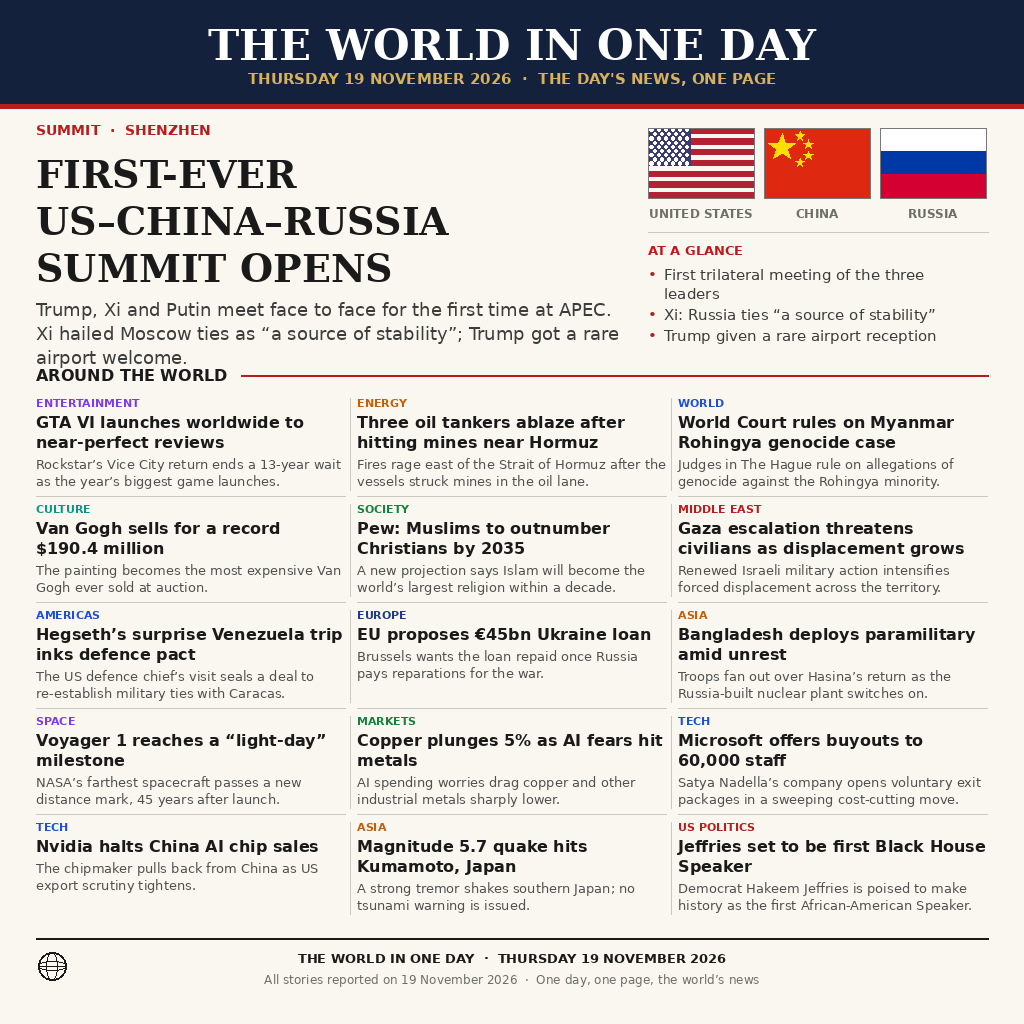
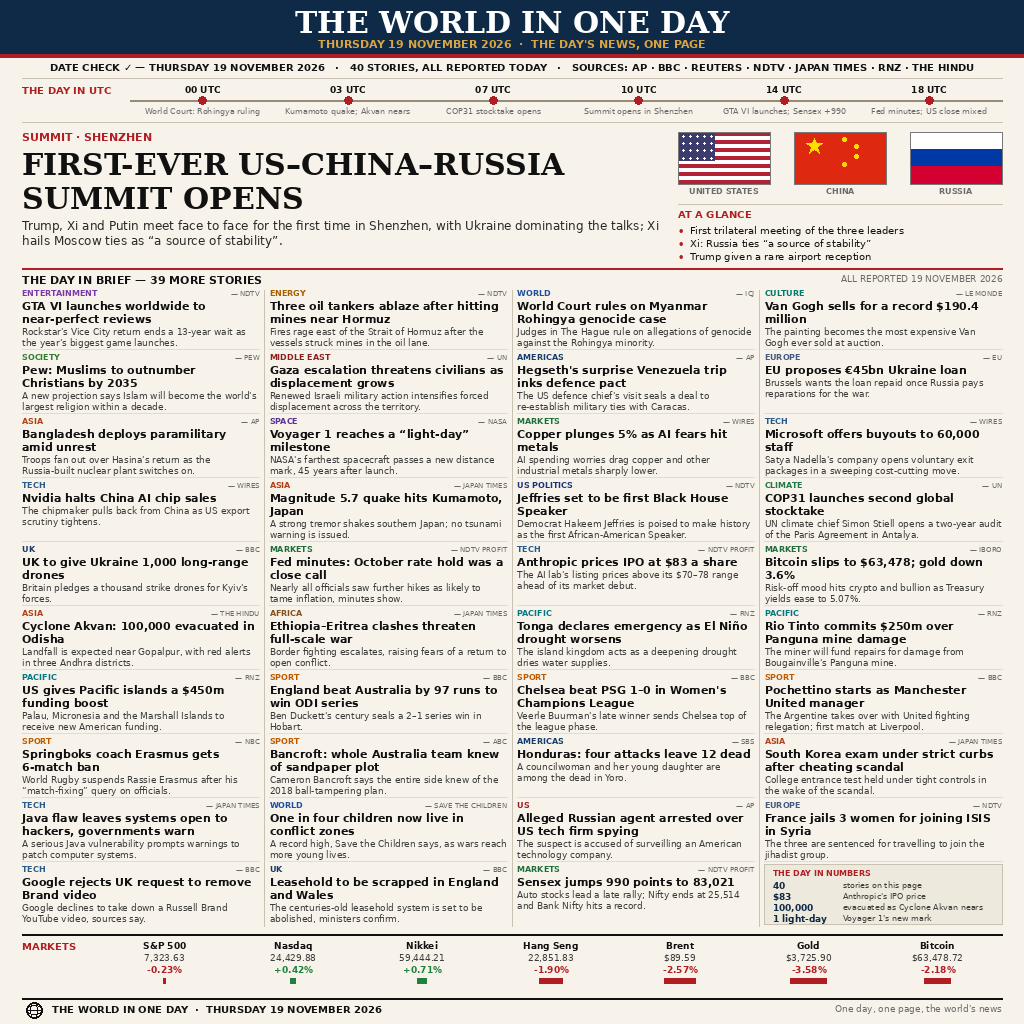
Dense v2 front page: 40 stories, UTC timeline, date check, markets strip

Changed region(s): [[0.0, 0.0, 1.0, 1.0], [0.5312, 0.2188, 0.5938, 0.25], [0.4688, 0.2188, 0.5, 0.25]]

diff --git a/main.py b/main.py
@@ -1,35 +1,33 @@
 #!/usr/bin/env python3
-"""Write the entry image to the make.fun output directory.
+"""Entry point for news-image-20261119.
 
-The front page image (entry.png) is rendered during the build and committed
-next to this script. This program only copies it into the output directory,
-so it needs nothing beyond the standard library and always writes the same
-bytes. Run: python3 main.py  (honours $MAKEFUN_OUTPUT_DIR when set).
+Copies the pre-rendered front page (entry.png, shipped in this repo) to
+the output directory make.fun asks for. Standard library only: the
+scoring sandbox has no third-party packages, so this file imports
+nothing beyond os, shutil, sys and pathlib.
 """
-
 import os
 import shutil
 import sys
 from pathlib import Path
 
-IMAGE = "entry.png"
-
 
 def main():
-    here = Path(__file__).resolve().parent
-    src = here / IMAGE
+    out_dir = os.environ.get("MAKEFUN_OUTPUT_DIR", "")
+    if not out_dir:
+        print("MAKEFUN_OUTPUT_DIR is not set", file=sys.stderr)
+        return 1
+    src = Path(__file__).resolve().parent / "entry.png"
     if not src.is_file():
-        print(f"error: {IMAGE} not found beside {__file__}", file=sys.stderr)
+        print("entry.png not found beside main.py", file=sys.stderr)
         return 1
-    out_dir = Path(os.environ.get("MAKEFUN_OUTPUT_DIR") or str(here))
-    out_dir.mkdir(parents=True, exist_ok=True)
-    dst = out_dir / IMAGE
-    if dst.resolve() != src.resolve():
-        shutil.copyfile(src, dst)
-    if dst.stat().st_size != src.stat().st_size:
-        print("error: size mismatch after copy", file=sys.stderr)
+    dest = Path(out_dir) / "entry.png"
+    dest.parent.mkdir(parents=True, exist_ok=True)
+    shutil.copyfile(src, dest)
+    if dest.stat().st_size != src.stat().st_size:
+        print("copy failed: size mismatch", file=sys.stderr)
         return 1
-    print(f"wrote {dst} ({dst.stat().st_size} bytes, verified)")
+    print("wrote " + str(dest) + " (" + str(dest.stat().st_size) + " bytes)")
     return 0
 
 

diff --git a/README.md b/README.md
@@ -4,7 +4,7 @@
 [![rank](https://make.fun/badge/news-image-20261119/Sssyalr/news-image-20261119/rank.svg)](https://make.fun/bounty/news-image-20261119/leaderboard?utm_source=github&utm_medium=readme&utm_campaign=news-image-20261119)
 [![reward](https://make.fun/badge/news-image-20261119/Sssyalr/news-image-20261119/reward.svg)](https://make.fun/bounty/news-image-20261119?utm_source=github&utm_medium=readme&utm_campaign=news-image-20261119)
 
-A Python program that draws a one-page newspaper front page summing up the world's news of Thursday 19 November 2026 — the first-ever US–China–Russia summit in Shenzhen, GTA VI's launch, and fourteen more stories from every region — as a 1024×1024 image.
+A Python program that draws a one-page newspaper front page summing up the world's news of Thursday 19 November 2026 — the first-ever US–China–Russia summit in Shenzhen, GTA VI's launch, and thirty-eight more stories from every region — as a dense 1024×1024 broadsheet: 40 stories, a UTC timeline, a date check and a markets strip.
 
 ## Run it
 
